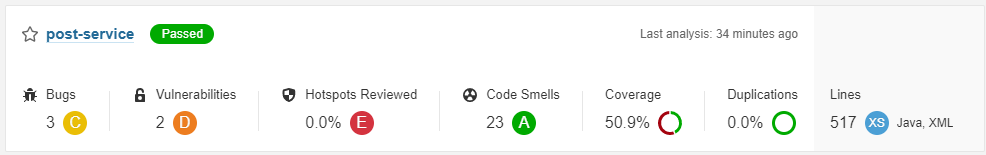
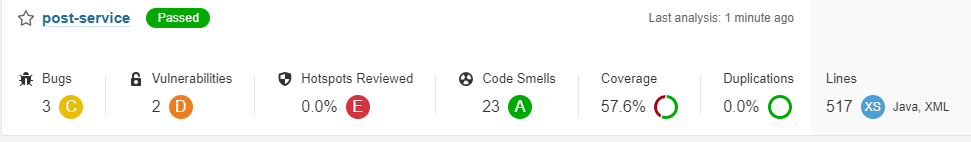
coverage increased

diff --git a/src/test/java/com/postservice/Service/PostServiceTest.java b/src/test/java/com/postservice/Service/PostServiceTest.java
@@ -1,6 +1,7 @@
 package com.postservice.Service;
 
 import com.postservice.Exception.PostNotFoundException;
+import com.postservice.Exception.UserNotFoundException;
 import com.postservice.Feign.FeignComment;
 import com.postservice.Feign.FeignLike;
 import com.postservice.Feign.FeignUser;
@@ -89,6 +90,7 @@ class PostServiceTest {
         when(this.postRepo.save(postModel)).thenReturn(postModel);
         when(this.postRepo.findById("1")).thenReturn(Optional.of(postModel));
         assertThat(this.service.updatePost(postModel,"1").getPost()).isEqualTo(postDTO.getPost());
+        assertThrows(PostNotFoundException.class,()->this.service.updatePost(postModel,"2"));
 
 
     }
